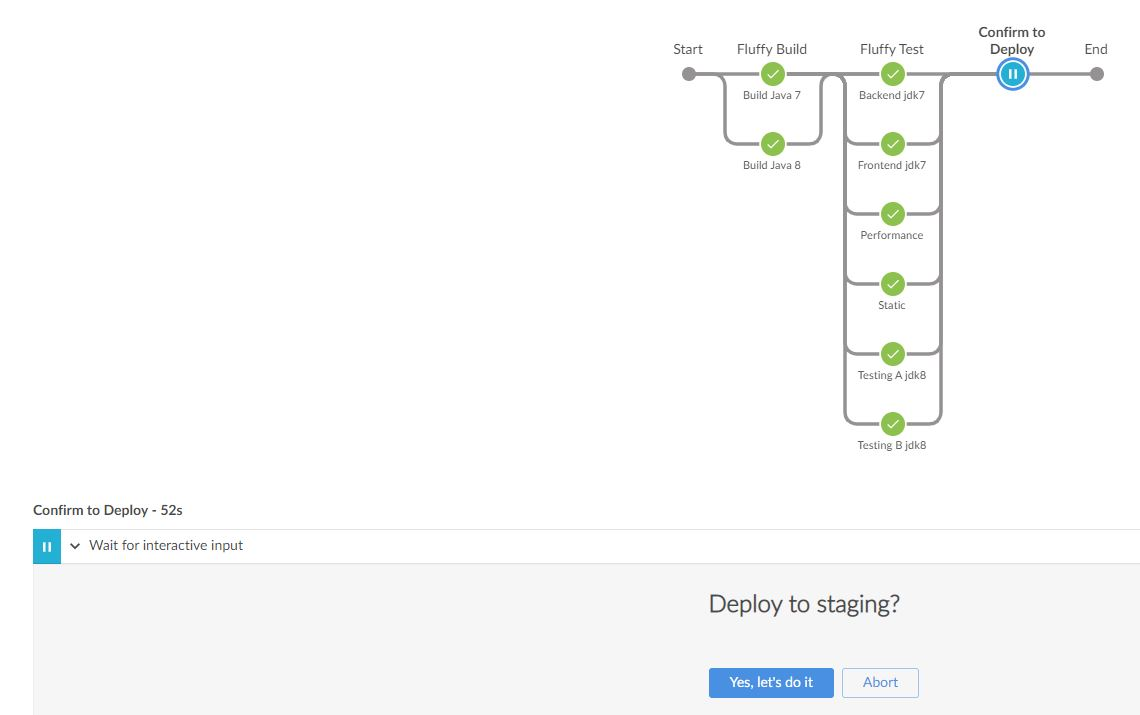
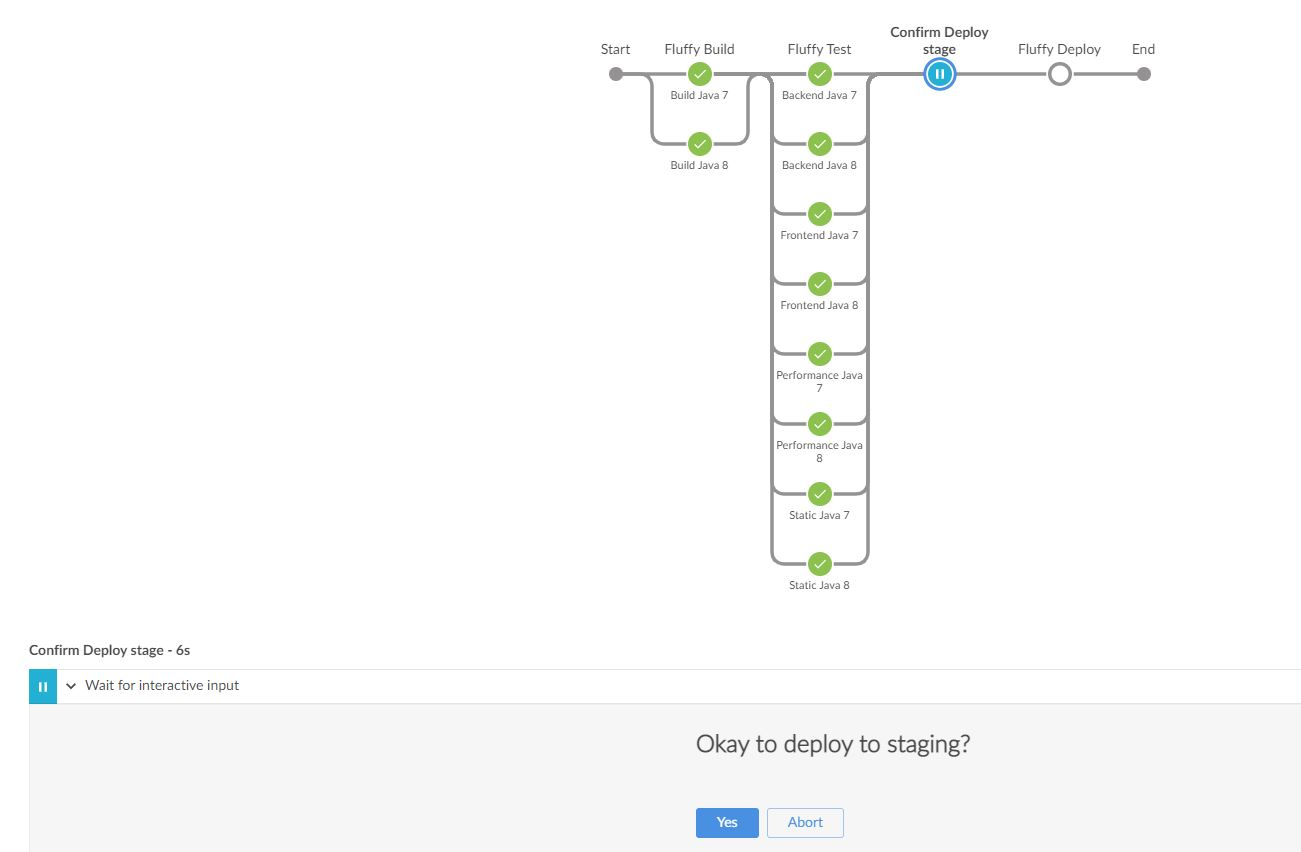
update parallel stages multi-environment builds

diff --git a/Lab 02  - Multi-environment Pipeline/README.md b/Lab 02  - Multi-environment Pipeline/README.md
@@ -12,8 +12,8 @@
 
 ## Objectives of the lab:
 + Defining global **agent none** meaning no default agent to use for all stages
-+ Running some stage builds on jdk7-node agent
-+ Running other stage builds on jdk-8-node agent
++ Control the node on which a Pipeline or individual stages run
++ Build and run tests in parallel on two different agent environments: Running some stage builds on jdk7-node agent while other stage builds on jdk-8-node agent
 + setting stage-specific environment variables
 
 
